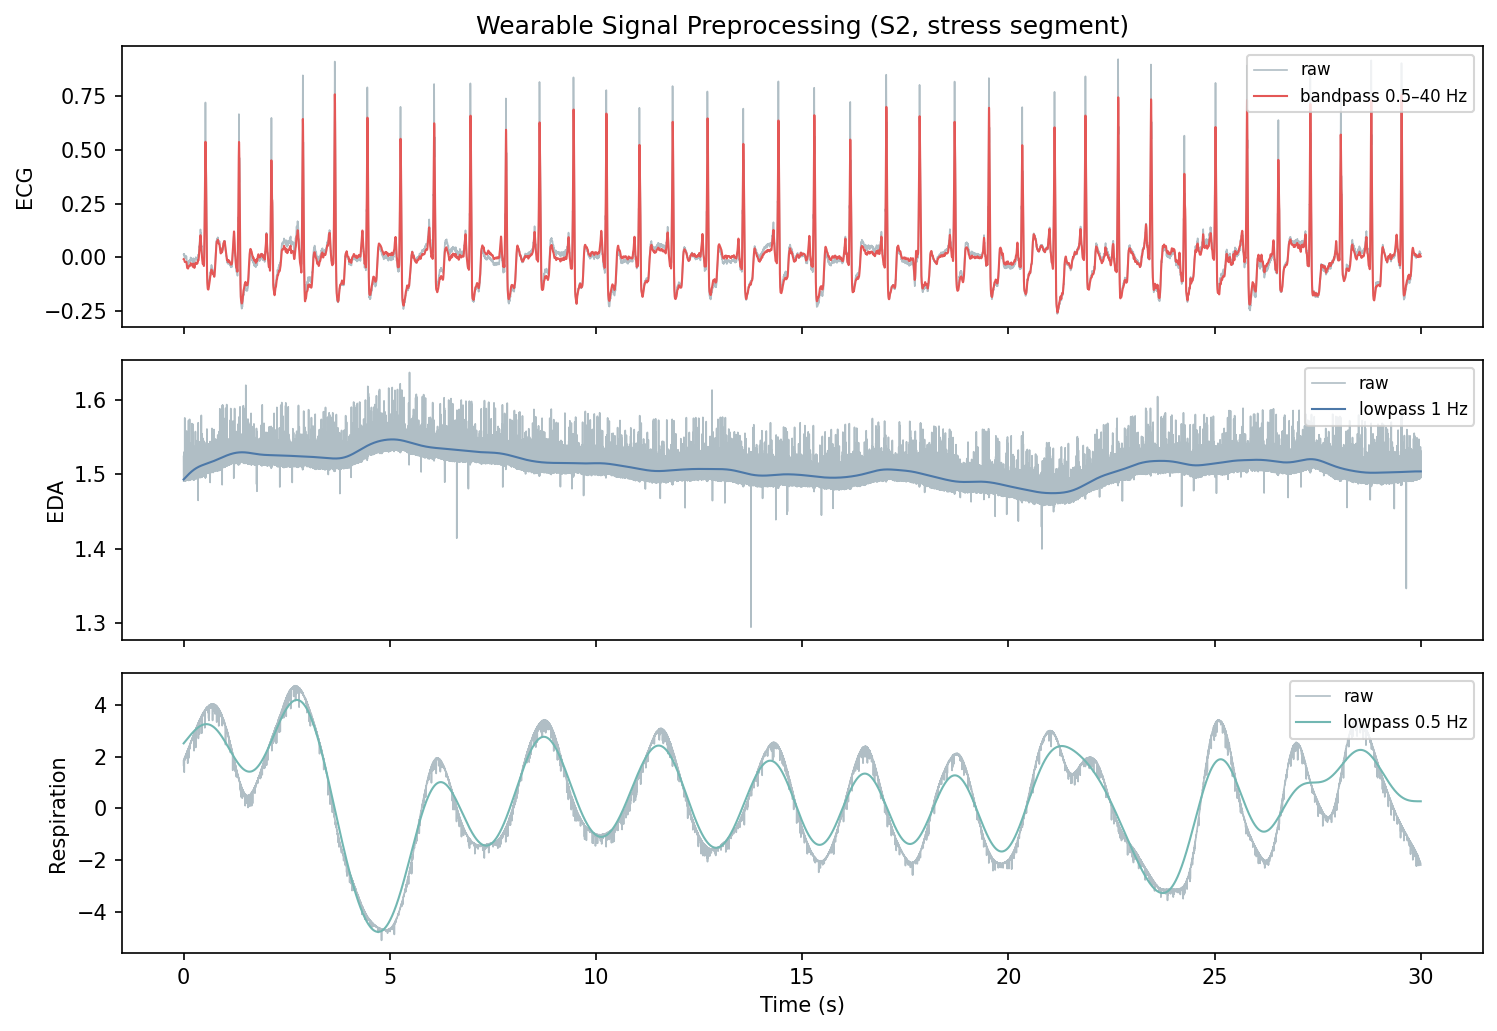
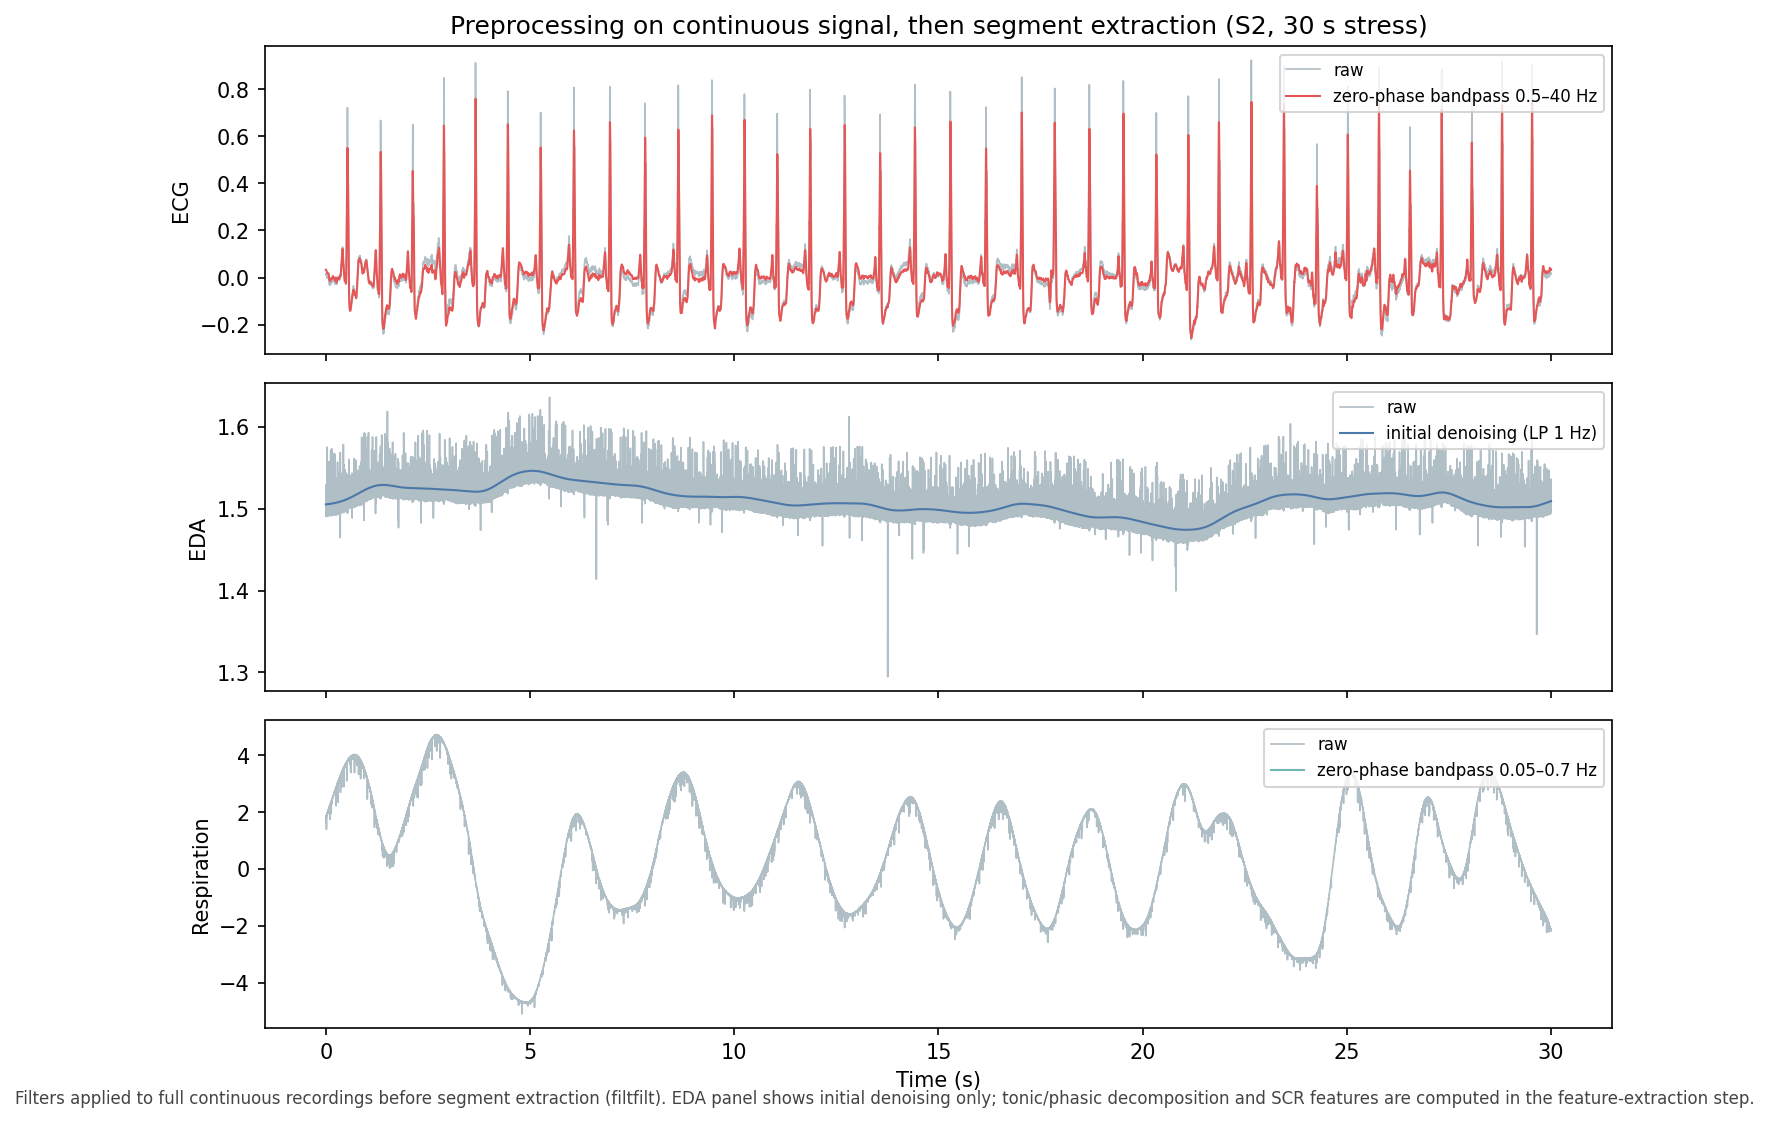
Apply continuous-signal-first zero-phase filtering and document preprocessing

diff --git a/src/wesad_arousal/visualization.py b/src/wesad_arousal/visualization.py
@@ -12,11 +12,16 @@ import seaborn as sns
 
 from wesad_arousal.data import load_subject_interim
 from wesad_arousal.labels import label_config
-from wesad_arousal.preprocessing import bandpass_filter, lowpass_filter
+from wesad_arousal.preprocessing import (
+    denoise_eda_continuous,
+    filter_ecg_continuous,
+    filter_respiration_continuous,
+)
 
 
 def _save(fig, path: Path) -> None:
     path.parent.mkdir(parents=True, exist_ok=True)
+    fig.subplots_adjust(bottom=0.12)
     fig.tight_layout()
     fig.savefig(path, dpi=150, bbox_inches="tight")
     plt.close(fig)
@@ -56,33 +61,53 @@ def plot_signal_preprocessing_examples(cfg: dict, out_path: Path, subject_id: st
     labels = np.asarray(frames["labels"])
     start, end = _find_stress_segment(labels, cfg)
     fs_chest = cfg["sampling_rates"]["chest"]
+
+    ecg_full = _signal_values(frames["chest_ECG"])
+    eda_full = _signal_values(frames["chest_EDA"])
+    resp_full = _signal_values(frames["chest_Resp"])
+
+    ecg_f_full = filter_ecg_continuous(ecg_full, fs_chest)
+    eda_f_full = denoise_eda_continuous(eda_full, fs_chest)
+    resp_f_full = filter_respiration_continuous(resp_full, fs_chest)
+
+    ecg = ecg_full[start:end]
+    eda = eda_full[start:end]
+    resp = resp_full[start:end]
+    ecg_f = ecg_f_full[start:end]
+    eda_f = eda_f_full[start:end]
+    resp_f = resp_f_full[start:end]
     t = np.arange(end - start) / fs_chest
 
-    ecg = _signal_values(frames["chest_ECG"])[start:end]
-    eda = _signal_values(frames["chest_EDA"])[start:end]
-    resp = _signal_values(frames["chest_Resp"])[start:end]
-    ecg_f = bandpass_filter(ecg, fs_chest, 0.5, 40.0)
-    eda_f = lowpass_filter(eda, fs_chest, 1.0)
-    resp_f = lowpass_filter(resp, fs_chest, 0.5)
-
-    fig, axes = plt.subplots(3, 1, figsize=(10, 7), sharex=True)
+    fig, axes = plt.subplots(3, 1, figsize=(10, 7.5), sharex=True)
     axes[0].plot(t, ecg, color="#B0BEC5", linewidth=0.8, label="raw")
-    axes[0].plot(t, ecg_f, color="#E45756", linewidth=1.0, label="bandpass 0.5–40 Hz")
+    axes[0].plot(t, ecg_f, color="#E45756", linewidth=1.0, label="zero-phase bandpass 0.5–40 Hz")
     axes[0].set_ylabel("ECG")
     axes[0].legend(loc="upper right", fontsize=8)
-    axes[0].set_title(f"Wearable Signal Preprocessing ({subject_id}, stress segment)")
+    axes[0].set_title(
+        f"Preprocessing on continuous signal, then segment extraction ({subject_id}, 30 s stress)"
+    )
 
     axes[1].plot(t, eda, color="#B0BEC5", linewidth=0.8, label="raw")
-    axes[1].plot(t, eda_f, color="#4C78A8", linewidth=1.0, label="lowpass 1 Hz")
+    axes[1].plot(t, eda_f, color="#4C78A8", linewidth=1.0, label="initial denoising (LP 1 Hz)")
     axes[1].set_ylabel("EDA")
     axes[1].legend(loc="upper right", fontsize=8)
 
     axes[2].plot(t, resp, color="#B0BEC5", linewidth=0.8, label="raw")
-    axes[2].plot(t, resp_f, color="#72B7B2", linewidth=1.0, label="lowpass 0.5 Hz")
+    axes[2].plot(t, resp_f, color="#72B7B2", linewidth=1.0, label="zero-phase bandpass 0.05–0.7 Hz")
     axes[2].set_ylabel("Respiration")
     axes[2].set_xlabel("Time (s)")
     axes[2].legend(loc="upper right", fontsize=8)
 
+    fig.text(
+        0.5,
+        0.01,
+        "Filters applied to full continuous recordings before segment extraction (filtfilt). "
+        "EDA panel shows initial denoising only; tonic/phasic decomposition and SCR features "
+        "are computed in the feature-extraction step.",
+        ha="center",
+        fontsize=8,
+        color="#444444",
+    )
     _save(fig, out_path)
 
 

diff --git a/src/wesad_arousal/preprocessing.py b/src/wesad_arousal/preprocessing.py
@@ -1,9 +1,20 @@
-"""Conservative preprocessing helpers."""
+"""Conservative preprocessing helpers.
+
+All bandpass/lowpass operations use zero-phase ``scipy.signal.filtfilt`` (Butterworth)
+to avoid phase distortion that would shift R-peak timing or respiratory peaks.
+
+Filtering is applied to the full continuous recording **before** window/segment
+extraction to reduce edge artifacts at segment boundaries.
+"""
 
 from __future__ import annotations
 
 import numpy as np
 from scipy import signal as scipy_signal
+
+ECG_BANDPASS_HZ = (0.5, 40.0)
+EDA_DENOISE_CUTOFF_HZ = 1.0
+RESP_BANDPASS_HZ = (0.05, 0.7)
 
 
 def bandpass_filter(
@@ -33,6 +44,41 @@ def lowpass_filter(data: np.ndarray, fs: float, cutoff: float, order: int = 3) -
     norm = min(cutoff / nyq, 0.99)
     b, a = scipy_signal.butter(order, norm, btype="low")
     return scipy_signal.filtfilt(b, a, arr)
+
+
+def filter_ecg_continuous(ecg: np.ndarray, fs: float) -> np.ndarray:
+    low, high = ECG_BANDPASS_HZ
+    return bandpass_filter(ecg, fs, low, high)
+
+
+def denoise_eda_continuous(eda: np.ndarray, fs: float) -> np.ndarray:
+    return lowpass_filter(eda, fs, EDA_DENOISE_CUTOFF_HZ)
+
+
+def filter_respiration_continuous(resp: np.ndarray, fs: float) -> np.ndarray:
+    low, high = RESP_BANDPASS_HZ
+    return bandpass_filter(resp, fs, low, high)
+
+
+def preprocess_continuous_signals(
+    signal_arrays: dict[str, np.ndarray],
+    cfg: dict,
+) -> dict[str, np.ndarray]:
+    """Filter full continuous signals once per subject before windowing."""
+    fs_chest = cfg["sampling_rates"]["chest"]
+    wrist_fs = cfg["sampling_rates"]["wrist"]
+    processed: dict[str, np.ndarray] = {}
+
+    if "chest_ECG" in signal_arrays:
+        processed["chest_ECG"] = filter_ecg_continuous(signal_arrays["chest_ECG"], fs_chest)
+    if "chest_EDA" in signal_arrays:
+        processed["chest_EDA"] = denoise_eda_continuous(signal_arrays["chest_EDA"], fs_chest)
+    if "chest_Resp" in signal_arrays:
+        processed["chest_Resp"] = filter_respiration_continuous(signal_arrays["chest_Resp"], fs_chest)
+    if "wrist_EDA" in signal_arrays:
+        processed["wrist_EDA"] = denoise_eda_continuous(signal_arrays["wrist_EDA"], wrist_fs["EDA"])
+
+    return processed
 
 
 def zscore(data: np.ndarray) -> np.ndarray:

diff --git a/src/wesad_arousal/pipeline.py b/src/wesad_arousal/pipeline.py
@@ -16,6 +16,7 @@ from wesad_arousal.features.respiration import extract_bvp_features, extract_res
 from wesad_arousal.features.temperature import extract_temperature_features
 from wesad_arousal.features.windowing import generate_windows, slice_signal_by_window, windows_to_dataframe
 from wesad_arousal.quality import compute_signal_qc, qc_row, window_exclusion_summary
+from wesad_arousal.preprocessing import preprocess_continuous_signals
 from wesad_arousal.labels import summarize_label_coverage
 
 
@@ -52,6 +53,12 @@ def extract_subject_features(subject_id: str, cfg: dict, interim_dir: Path) -> t
     use_wrist = cfg["devices"]["use_wrist"]
     groups = set(cfg.get("feature_groups", []))
 
+    raw_arrays: dict[str, np.ndarray] = {}
+    for key in ("chest_ECG", "chest_EDA", "chest_Resp", "wrist_EDA"):
+        if key in frames:
+            raw_arrays[key] = _get_signal_array(frames[key])
+    filtered_arrays = preprocess_continuous_signals(raw_arrays, cfg)
+
     feature_rows = []
     qc_rows: list[dict] = []
 
@@ -67,24 +74,40 @@ def extract_subject_features(subject_id: str, cfg: dict, interim_dir: Path) -> t
         }
 
         if use_chest and "hrv" in groups and "chest_ECG" in frames:
-            ecg = _get_signal_array(frames["chest_ECG"])
+            ecg = filtered_arrays.get("chest_ECG", raw_arrays["chest_ECG"])
             segment = slice_signal_by_window(ecg, cfg["sampling_rates"]["chest"], window)
-            row.update(extract_hrv_features(segment, cfg["sampling_rates"]["chest"], prefix="chest_hrv"))
+            row.update(
+                extract_hrv_features(
+                    segment, cfg["sampling_rates"]["chest"], prefix="chest_hrv", pre_filtered=True
+                )
+            )
 
         if use_chest and "eda" in groups and "chest_EDA" in frames:
-            eda = _get_signal_array(frames["chest_EDA"])
+            eda = filtered_arrays.get("chest_EDA", raw_arrays["chest_EDA"])
             segment = slice_signal_by_window(eda, cfg["sampling_rates"]["chest"], window)
-            row.update(extract_eda_features(segment, cfg["sampling_rates"]["chest"], prefix="chest_eda"))
+            row.update(
+                extract_eda_features(
+                    segment, cfg["sampling_rates"]["chest"], prefix="chest_eda", pre_denoised=True
+                )
+            )
 
         if use_wrist and "eda" in groups and "wrist_EDA" in frames:
-            eda = _get_signal_array(frames["wrist_EDA"])
+            eda = filtered_arrays.get("wrist_EDA", raw_arrays["wrist_EDA"])
             segment = slice_signal_by_window(eda, cfg["sampling_rates"]["wrist"]["EDA"], window)
-            row.update(extract_eda_features(segment, cfg["sampling_rates"]["wrist"]["EDA"], prefix="wrist_eda"))
+            row.update(
+                extract_eda_features(
+                    segment, cfg["sampling_rates"]["wrist"]["EDA"], prefix="wrist_eda", pre_denoised=True
+                )
+            )
 
         if use_chest and "respiration" in groups and "chest_Resp" in frames:
-            resp = _get_signal_array(frames["chest_Resp"])
+            resp = filtered_arrays.get("chest_Resp", raw_arrays["chest_Resp"])
             segment = slice_signal_by_window(resp, cfg["sampling_rates"]["chest"], window)
-            row.update(extract_respiration_features(segment, cfg["sampling_rates"]["chest"], prefix="chest_resp"))
+            row.update(
+                extract_respiration_features(
+                    segment, cfg["sampling_rates"]["chest"], prefix="chest_resp", pre_filtered=True
+                )
+            )
 
         if use_wrist and "bvp" in groups and "wrist_BVP" in frames:
             bvp = _get_signal_array(frames["wrist_BVP"])

diff --git a/tests/test_preprocessing.py b/tests/test_preprocessing.py
@@ -1,0 +1,27 @@
+"""Tests for continuous-signal-first preprocessing."""
+
+import numpy as np
+
+from wesad_arousal.preprocessing import (
+    denoise_eda_continuous,
+    filter_ecg_continuous,
+    filter_respiration_continuous,
+)
+
+
+def test_filters_run_on_long_continuous_signal():
+    fs = 700
+    n = int(60 * fs)
+    t = np.arange(n) / fs
+    ecg = np.sin(2 * np.pi * 1.2 * t)
+    eda = 2.0 + 0.05 * np.random.randn(n)
+    resp = np.sin(2 * np.pi * 0.25 * t)
+
+    ecg_f = filter_ecg_continuous(ecg, fs)
+    eda_f = denoise_eda_continuous(eda, fs)
+    resp_f = filter_respiration_continuous(resp, fs)
+
+    assert ecg_f.shape == ecg.shape
+    assert eda_f.shape == eda.shape
+    assert resp_f.shape == resp.shape
+    assert not np.allclose(ecg, ecg_f)

diff --git a/src/wesad_arousal/features/respiration.py b/src/wesad_arousal/features/respiration.py
@@ -5,10 +5,15 @@ from __future__ import annotations
 import numpy as np
 from scipy import signal as scipy_signal
 
-from wesad_arousal.preprocessing import safe_stat
+from wesad_arousal.preprocessing import bandpass_filter, safe_stat
 
 
-def extract_respiration_features(resp: np.ndarray, fs: float, prefix: str = "resp") -> dict[str, float]:
+def extract_respiration_features(
+    resp: np.ndarray,
+    fs: float,
+    prefix: str = "resp",
+    pre_filtered: bool = False,
+) -> dict[str, float]:
     signal = np.asarray(resp, dtype=float).reshape(-1)
     if signal.size < fs * 5:
         return {
@@ -19,13 +24,14 @@ def extract_respiration_features(resp: np.ndarray, fs: float, prefix: str = "res
             f"{prefix}_plausibility": 0.0,
         }
 
-    rate = _estimate_breathing_rate(signal, fs)
+    filtered = signal if pre_filtered else bandpass_filter(signal, fs, low=0.05, high=0.7)
+    rate = _estimate_breathing_rate(filtered, fs)
     plausibility = 1.0 if 6.0 <= rate <= 40.0 else 0.0
     return {
         f"{prefix}_rate_mean": rate,
-        f"{prefix}_rate_std": safe_stat(signal, np.std),
-        f"{prefix}_amplitude_mean": safe_stat(signal, np.mean),
-        f"{prefix}_amplitude_std": safe_stat(signal, np.std),
+        f"{prefix}_rate_std": safe_stat(filtered, np.std),
+        f"{prefix}_amplitude_mean": safe_stat(filtered, np.mean),
+        f"{prefix}_amplitude_std": safe_stat(filtered, np.std),
         f"{prefix}_plausibility": plausibility,
     }
 

diff --git a/src/wesad_arousal/features/eda.py b/src/wesad_arousal/features/eda.py
@@ -7,12 +7,17 @@ import numpy as np
 from wesad_arousal.preprocessing import lowpass_filter, safe_stat
 
 
-def extract_eda_features(eda: np.ndarray, fs: float, prefix: str = "eda") -> dict[str, float]:
+def extract_eda_features(
+    eda: np.ndarray,
+    fs: float,
+    prefix: str = "eda",
+    pre_denoised: bool = False,
+) -> dict[str, float]:
     signal = np.asarray(eda, dtype=float).reshape(-1)
     if signal.size == 0:
         return _empty_eda(prefix)
 
-    smoothed = lowpass_filter(signal, fs, cutoff=1.0)
+    smoothed = signal if pre_denoised else lowpass_filter(signal, fs, cutoff=1.0)
     valid_range = (0.01, 60.0)
     in_range = np.mean((smoothed >= valid_range[0]) & (smoothed <= valid_range[1]))
 

diff --git a/src/wesad_arousal/features/hrv.py b/src/wesad_arousal/features/hrv.py
@@ -20,14 +20,19 @@ def _fallback_hrv_features(signal: np.ndarray, fs: float, prefix: str) -> dict[s
     }
 
 
-def extract_hrv_features(ecg: np.ndarray, fs: float, prefix: str = "hrv") -> dict[str, float]:
+def extract_hrv_features(
+    ecg: np.ndarray,
+    fs: float,
+    prefix: str = "hrv",
+    pre_filtered: bool = False,
+) -> dict[str, float]:
     signal = np.asarray(ecg, dtype=float).reshape(-1)
     if signal.size < fs * 5:
         features = _fallback_hrv_features(signal, fs, prefix)
         features[f"{prefix}_peak_success_rate"] = 0.0
         return features
 
-    filtered = bandpass_filter(signal, fs, low=0.5, high=40.0)
+    filtered = signal if pre_filtered else bandpass_filter(signal, fs, low=0.5, high=40.0)
 
     try:
         import neurokit2 as nk

diff --git a/README.md b/README.md
@@ -40,9 +40,25 @@ WESAD .pkl  →  Preprocess  →  QC  →  Windowing  →  Features  →  LOSO M
 
 ![Pipeline diagram](reports/figures/pipeline_diagram.png)
 
-**Signal preprocessing** — raw vs filtered ECG, EDA, and respiration (stress segment):
+### Signal preprocessing methodology
+
+All filtering uses **zero-phase Butterworth filters** (`scipy.signal.filtfilt`) applied to the **full continuous recording before segment/window extraction**, to reduce edge artifacts and avoid phase shifts in R-peak timing.
+
+| Signal | Step shown in figure | Feature-extraction step |
+|---|---|---|
+| **ECG** | Zero-phase bandpass **0.5–40 Hz** | R-peak detection and HRV (RMSSD, SDNN, pNN50, etc.) on filtered windows |
+| **EDA** | Initial denoising — low-pass **1 Hz** only | Tonic/phasic decomposition (NeuroKit2), SCR count and amplitude on windowed segments |
+| **Respiration** | Zero-phase bandpass **0.05–0.7 Hz** | Breathing rate, amplitude, plausibility (preserves stress-related faster breathing better than a 0.5 Hz low-pass) |
+
+> **Note:** The figure below shows a **representative 30-second stress segment for visual inspection** after continuous-signal filtering. Model evaluation uses **leave-one-subject-out (LOSO)** splits to reduce subject leakage.
+
+**EDA initial denoising / smoothing** (not the full SCR analysis pipeline):
 
 ![Signal preprocessing examples](reports/figures/signal_preprocessing_examples.png)
+
+Window-level EDA features additionally include tonic mean, phasic mean/std, SCR count, and SCR amplitude. SCR rise time, recovery time, and stimulus-locked latency are **not** implemented in this version.
+
+---
 
 **Quality control** — missingness heatmap by subject and sensor modality:
 